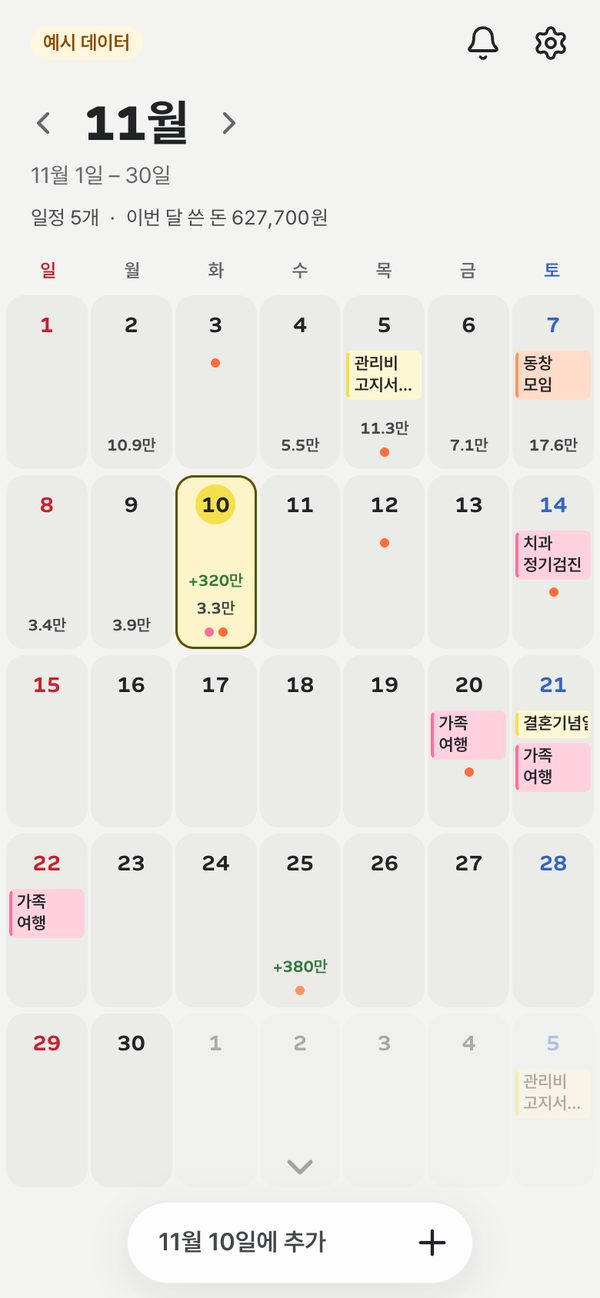
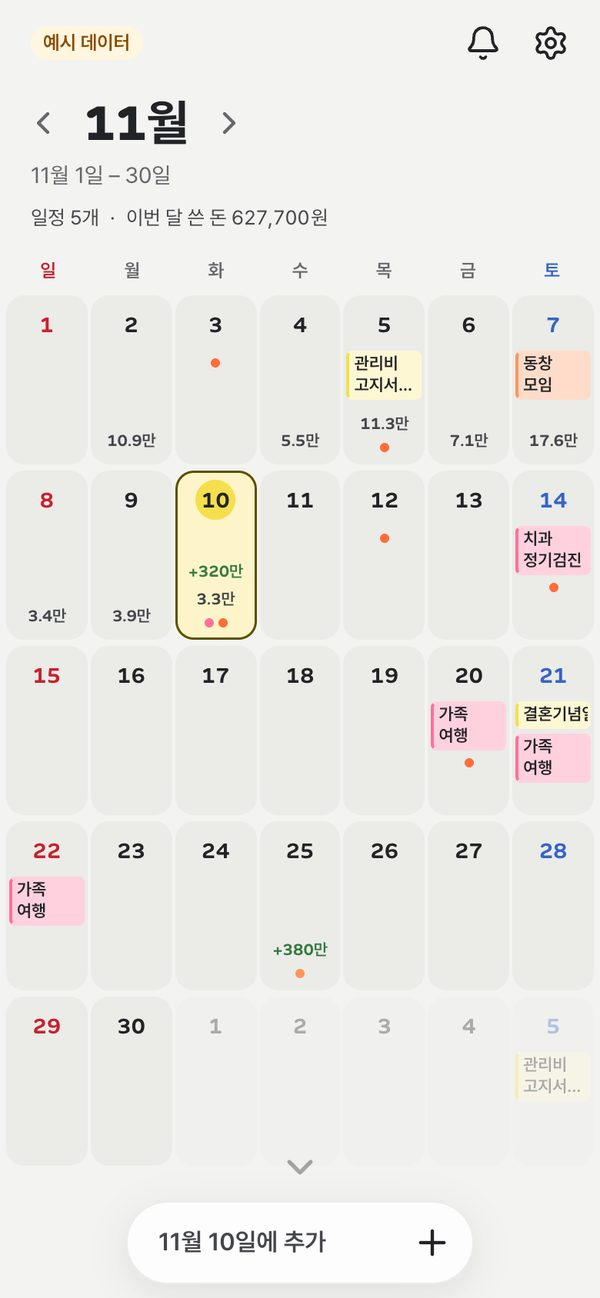
달력과 일정 추가 막대 사이를 띄움 — 마지막 줄과 24px, 펼친 카드 뒤는 덮개
막대가 달력 마지막 줄에 10px 로 붙어 있었고, 펼친 카드는 날짜 칸 위에 그대로 겹쳐 떠 경계가 흐렸다.
마지막 줄과 막대 사이를 fab-clear 24px 로 넓히고, 펼친 동안은 시트처럼 scrim 으로 뒤를 덮어 카드를 떼어 보인다.
덮개는 누름을 통과시켜 바깥 누르기로 접는 동작은 그대로다.

diff --git a/apps/web/src/app/shell.css b/apps/web/src/app/shell.css
@@ -275,6 +275,10 @@ div.bar-mini { display: flex; align-items: center; justify-content: center; gap:
   .fab-compose-row .btn.sm { height: 40px; padding: 0 18px; }
   /* 펼친 동안 아래 화살표는 비킨다 */
   :root:has(.fab.composing) .cal-down { opacity: 0; pointer-events: none; }
+  /* 펼친 카드는 달력 위에 뜨므로 시트처럼 뒤를 덮어 날짜와 떼어 보인다. 누름은 그대로 통과해 바깥 누르기로 접는다 */
+  :root[data-cal="focus"] body::after { content: ""; position: fixed; inset: 0; z-index: 30; background: var(--scrim); opacity: 0; pointer-events: none; transition: opacity var(--dur-tab) ease; }
+  :root[data-cal="focus"]:has(.fab.composing) body::after { opacity: 1; }
+  :root:has(.fab.composing) .navbar { z-index: 31; }
 }
 @media (prefers-reduced-transparency: reduce) {
   .tabbar, .topbar::before, :root[data-cal="focus"] .fab { background: var(--surface); -webkit-backdrop-filter: none; backdrop-filter: none; }
@@ -428,5 +432,5 @@ html[data-navigation="back"]::view-transition-new(app-page) { animation-name: pa
   ::view-transition-group(*), ::view-transition-old(*), ::view-transition-new(*) { animation: none !important; }
   .route-page { animation: none !important; }
   .page-enter, .page-enter > *, .page-enter .page-head * { animation: none !important; }
-  .fab, .fab-btn, .fab-prompt, .fab-compose, .fab-compose *, .fab-icon, .fab-icon > svg, .bell .badge, .tabbar { animation: none !important; transition: none !important; }
+  .fab, .fab-btn, .fab-prompt, .fab-compose, .fab-compose *, .fab-icon, .fab-icon > svg, body::after, .bell .badge, .tabbar { animation: none !important; transition: none !important; }
 }

diff --git a/apps/web/src/app/globals.css b/apps/web/src/app/globals.css
@@ -399,7 +399,7 @@ button, a, [role="button"], .chip, .tab, .seg button, .preset, .db {
     display: flex;
     flex-direction: column;
     min-height: calc(100svh - var(--topbar-btn) - 12px - env(safe-area-inset-top, 0px));
-    padding-bottom: calc(var(--fab-wide-h) + var(--nav-inset) * 2 + env(safe-area-inset-bottom, 0px));
+    padding-bottom: calc(var(--fab-wide-h) + var(--nav-inset) + var(--fab-clear) + env(safe-area-inset-bottom, 0px));
     scroll-snap-align: start;
   }
   .cal-stage .page-head { margin-bottom: 14px; }

diff --git a/apps/web/src/app/tokens.css b/apps/web/src/app/tokens.css
@@ -86,6 +86,7 @@
   --nav-gap: 8px;
   --fab-wide-w: 224px;
   --fab-wide-h: 52px;
+  --fab-clear: 24px;
   --fab-compose-h: 122px;
   --pass-peek: 58px;
   --radius-card: 24px;

diff --git a/docs/design-system/components/Calendar/README.md b/docs/design-system/components/Calendar/README.md
@@ -9,6 +9,7 @@
   - **첫 화면은 달력만:** 머리와 달력이 위 막대 아래를 꽉 채우고, 날짜 줄이 남는 높이를 나눠 가집니다. 손잡이·안내 글은 두지 않습니다.
   - **하단 메뉴가 비켜 줌:** 달력만 보일 때(`<html data-cal="focus">`) 캡슐은 아래로 내려가 숨고, 일정 추가 버튼이 가운데로 옮겨 가며 얇은 막대(`fab-wide-w` 224 × `fab-wide-h` 52px, 하단 메뉴처럼 반투명 바탕)로 늘어납니다(`dur-tab`·`ease-drawer`, 자리는 `translate`, 가운데는 하단 메뉴 실제 폭 `cqw` 기준). 막대 왼쪽은 "11월 17일에 추가"(쓰던 글이 있으면 그 글), 오른쪽 `+`는 원래 일정 시트입니다.
   - **바로 쓰기(`QuickAdd`):** "…에 추가"를 누르면 막대가 하단 메뉴 폭 × `fab-compose-h` 122px로 서서히 커지고(모서리 `radius-card`, 바탕 `surface`), 원래 입력칸(`.input`)이 55% 크기에서 `ease-pop`으로 커지며 생기고 키보드가 바로 올라옵니다. 아래 줄은 **시간 알약**(누르면 폰 시간 고르기, 고르면 "오후 3시 30분" · `accent-soft`, ×로 지움) · 자세히 · 추가. 추가는 시트 없이 고른 날짜에 **일정**으로 바로 더합니다(시간을 안 고르면 제목 속 "3시 반"을 시트와 같은 규칙으로 뗌). 자세히·`+`는 쓰던 제목·시간으로 일정 시트를 엽니다.
+  - 펼친 동안 뒤는 `scrim`으로 덮어 카드가 날짜와 떨어져 보입니다. 접힌 막대와 달력 마지막 줄 사이는 `fab-clear` 24px.
   - 막대 밖을 누르면 접기만 하고(그 누름은 뒤의 날짜를 고르지 않음), 뒤로 가기(`useBackToClose`)·Esc 로도 접힙니다. 쓰던 글은 남습니다. 키보드가 올라오면 화면이 줄어(`interactive-widget=resizes-content`, 앱은 `adjustResize`) 막대가 키보드 위에 붙습니다. 달력 아래에는 그 버튼 자리만큼 비워 둡니다.
   - **저항감 있는 넘김:** 두 칸 사이는 스크롤 스냅(`y mandatory`)입니다. 조금 끌면 달력으로 되돌아오고, 더 끌면 모아 보기 머리가 위 막대 아래에 맞춰 섭니다. 모아 보기가 길면 그 안은 자유롭게 굴립니다.
   - **메뉴가 돌아옴:** 모아 보기 위쪽이 화면 가운데를 넘으면(`data-cal="open"`) 캡슐과 버튼이 같은 박자로 제자리로 돌아옵니다. 다시 위로 올리면 또 비켜 줍니다.
